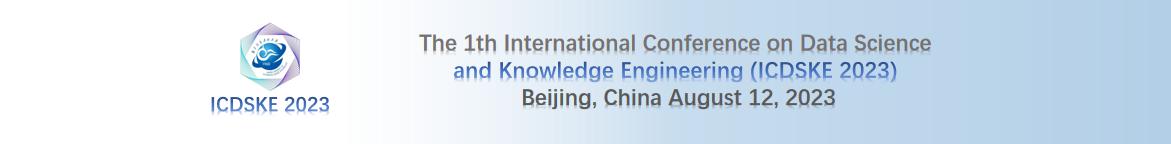
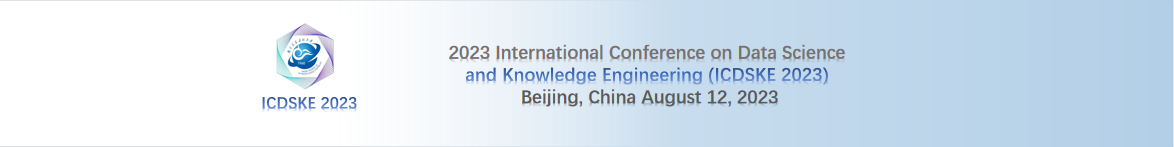
删除第一届文字

diff --git a/src/views/indexSon/mainPage/Program.vue b/src/views/indexSon/mainPage/Program.vue
@@ -6,7 +6,7 @@
         <ul class=" list-paddingleft-2" style="width: 1101.05px;"><p><strong>Agenda of</strong><strong>&nbsp;ICDSKE 2023</strong></p></ul>
         <p style="text-align: justify;"><br style="white-space: normal;"></p>
         <p style="text-align: justify;"><span style="color: #000000;">
-          <strong>2023 1th International Conference on Data Science and Knowledge Engineering (ICDSKE 2023) will be held on August, 2023 in Xiong’an New Area in Beijing, China. </strong>&nbsp;The following information about the schedule is for your reference.</span></p>
+          <strong>2023 International Conference on Data Science and Knowledge Engineering (ICDSKE 2023) will be held on August, 2023 in Xiong’an New Area in Beijing, China. </strong>&nbsp;The following information about the schedule is for your reference.</span></p>
         <p style="text-align: justify;"><span style="color: #000000;"><br></span></p>
 <!--        <el-table-->
 <!--          :data="tableData"-->
